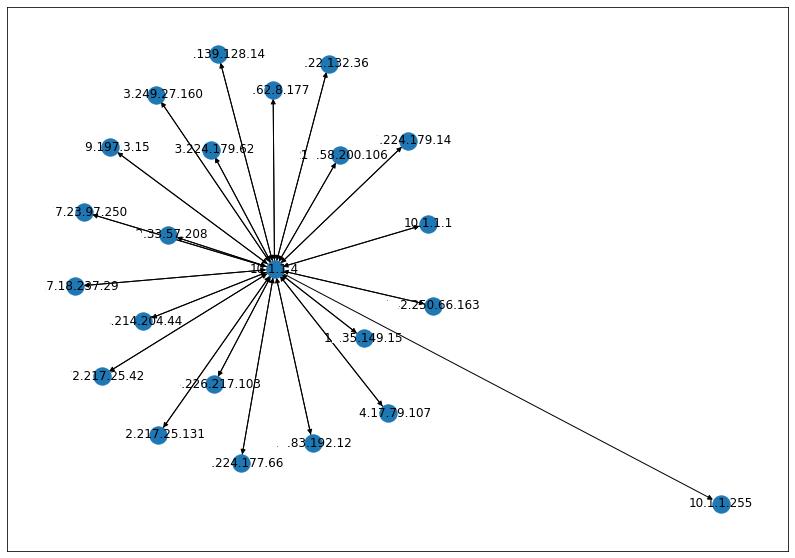
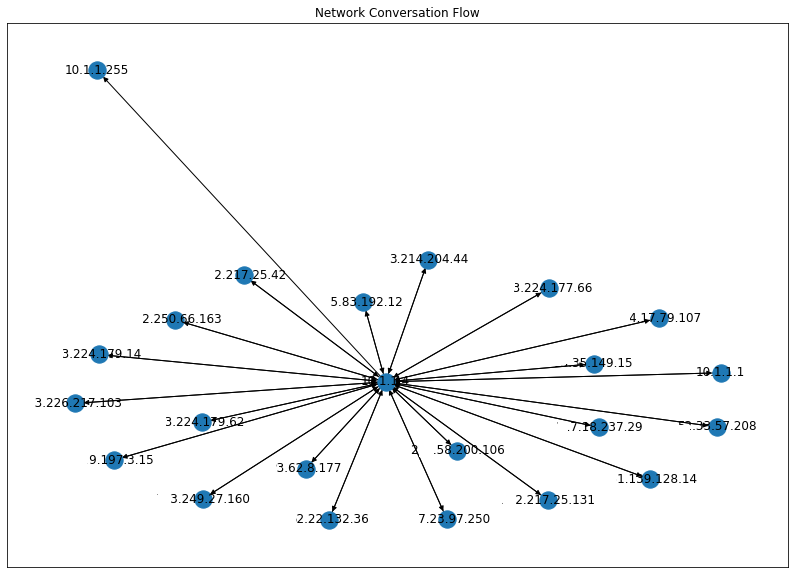
updated the network_conversation

diff --git a/network_conversation_heatmap.py b/network_conversation_heatmap.py
@@ -84,9 +84,11 @@ def network_traffic_heatmap(pivot_data):
 def network_graph(df):
     G = nx.Graph()
     G = nx.from_pandas_edgelist(df, source='src', target='dst', edge_attr=True, create_using=nx.DiGraph())
-    plt.figure(figsize=(14,10))
+    fig, ax = plt.subplots(figsize=(14,10))
+    ax.set_title('Network Conversation Flow')
     nx.draw_networkx(G)
     plt.show()
+    fig.savefig("network-conversation-flow.png",bbox_inches = "tight")
     
     
 def main():
